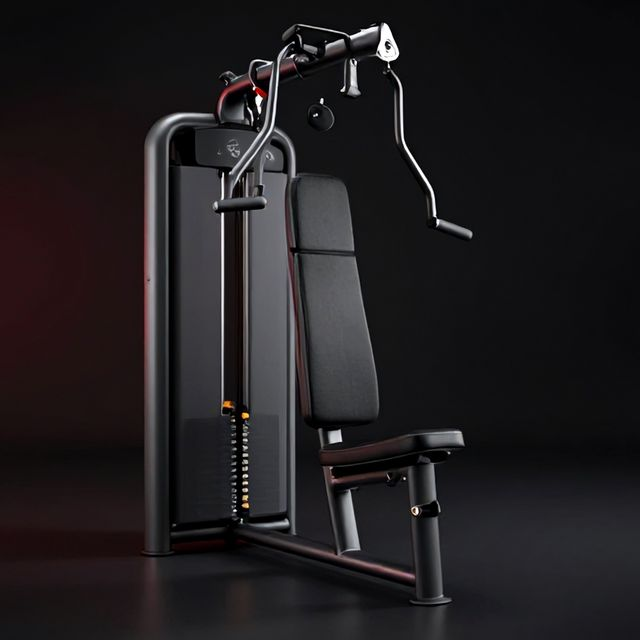
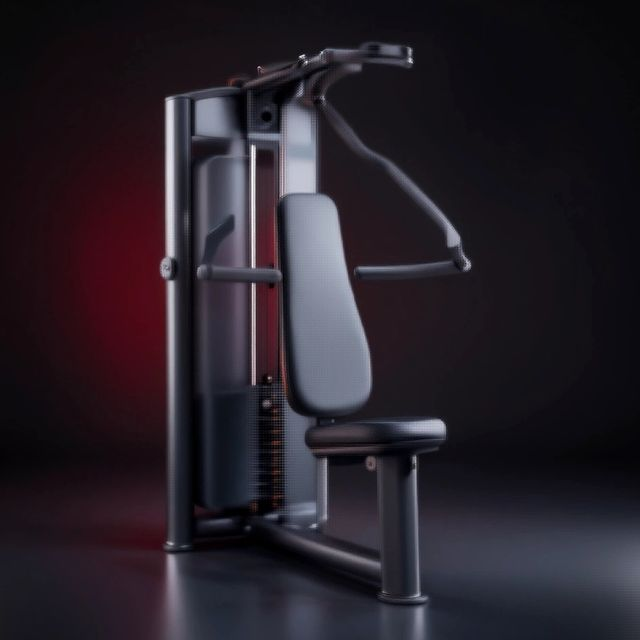
Image : nouvelle presse pectorale (la bonne machine)
Claude-Session: https://claude.ai/code/session_016ZngJnfSseRXApUKwMnqru

diff --git a/index.html b/index.html
@@ -2688,8 +2688,8 @@ function compress(file){return new Promise((res,rej)=>{const img=new Image(),u=U
     c.getContext("2d").drawImage(img,0,0,c.width,c.height);URL.revokeObjectURL(u);c.toBlob(b=>b?res(b):rej(),"image/jpeg",.82);};
   img.onerror=()=>{URL.revokeObjectURL(u);rej();};img.src=u;});}
 /* images des machines (générées, même style pour toutes) : clé = fichier dans photos/machines */
-/* retirées le 16 nov. (image fausse, à refaire) : benchPlate, seatedRow, preacherCurl, machineCurl */
-const MREADY=["legPress","legExt","legCurl","hipThrust","abductor","latPulldown","chestIncline","pecDeck","shoulderPress","cableRow","cableTower","smithBench","dumbbells","bench","pullupBar","bands","dipBars","mat"];
+/* retirées le 16 nov. (image fausse, à refaire) : seatedRow, preacherCurl, machineCurl */
+const MREADY=["benchPlate","legPress","legExt","legCurl","hipThrust","abductor","latPulldown","chestIncline","pecDeck","shoulderPress","cableRow","cableTower","smithBench","dumbbells","bench","pullupBar","bands","dipBars","mat"];
 const MIMG={legPress:"legPress",calfPress:"legPress",legExt:"legExt",legCurl:"legCurl",hipThrust:"hipThrust",abductor:"abductor",adductor:"abductor",
   benchPlate:"benchPlate",pressLow:"benchPlate",chestIncline:"chestIncline",pecDeck:"pecDeck",shoulderPress:"shoulderPress",latPulldown:"latPulldown",latPulldownV:"latPulldown",
   seatedRow:"seatedRow",rowWide:"seatedRow",cableRow:"cableRow",cableLatRaise:"cableTower",triPushdown:"cableTower",overheadTri:"cableTower",facePull:"cableTower",rearDeltRow:"cableTower",

diff --git a/sw.js b/sw.js
@@ -1,7 +1,7 @@
 /* Stoa : fonctionne hors connexion à la salle.
    Page : réseau d'abord (pour recevoir les mises à jour), cache en secours.
    Photos, icônes, polices : cache d'abord. */
-const CACHE = "stoa-v45";
+const CACHE = "stoa-v46";
 const CORE = ["./", "./index.html", "./manifest.webmanifest", "./icon-180.png", "./icon-192.png", "./icon-512.png",
   ...["legPress","legExt","legCurl","hipThrust","abductor","benchPlate","latPulldown","chestIncline","pecDeck","shoulderPress","seatedRow","cableRow","cableTower","smithBench","preacherCurl","machineCurl","dumbbells","bench","pullupBar","bands","dipBars","mat"].map(k => `./photos/machines/${k}.jpg`)];
 
